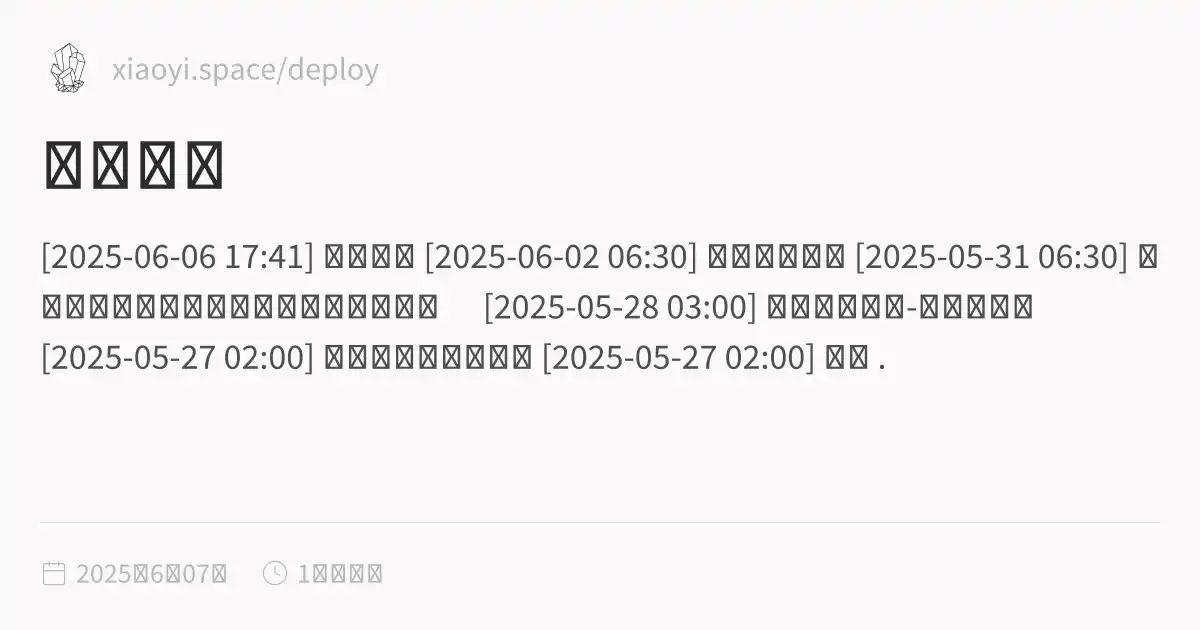
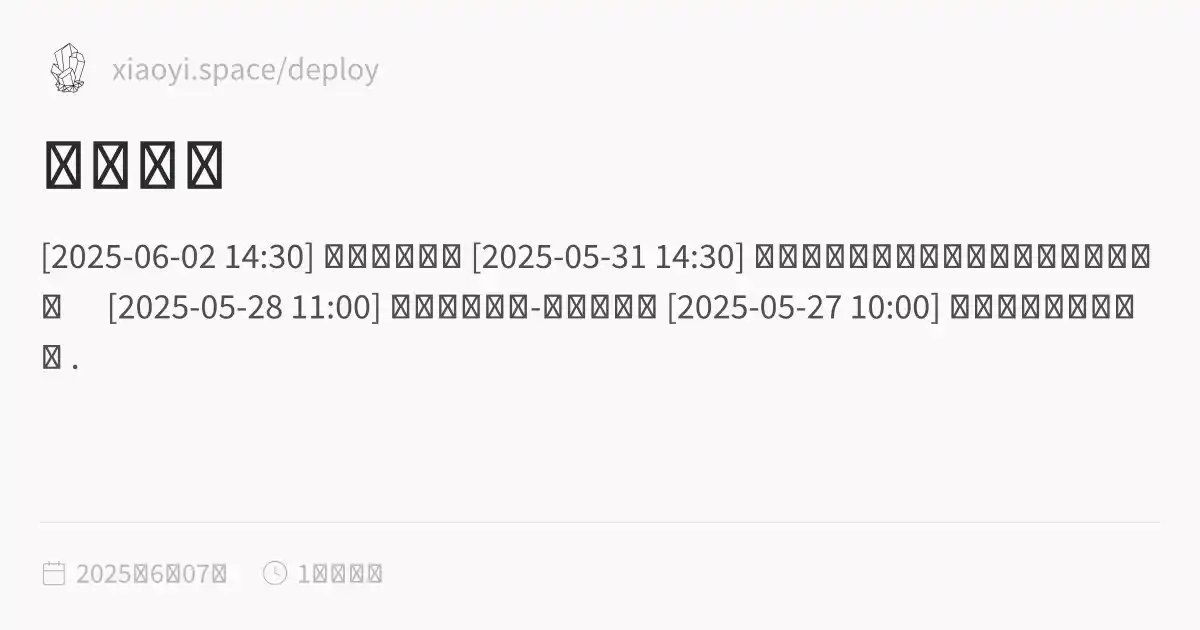
feature:xxxx

Changed region(s): [[0.0308, 0.3619, 0.9867, 0.5127], [0.0308, 0.5429, 0.74, 0.6032], [0.1542, 0.3921, 0.2775, 0.4222]]

diff --git a/deploy/最近更新.html b/deploy/最近更新.html
@@ -1,5 +1,5 @@
 <!DOCTYPE html>
-<html lang="zh"><head><title>最近更新</title><meta charset="utf-8"/><link rel="preconnect" href="https://fonts.googleapis.com"/><link rel="preconnect" href="https://fonts.gstatic.com"/><link rel="stylesheet" href="https://fonts.googleapis.com/css2?family=Schibsted Grotesk:wght@400;700&amp;family=Source Sans Pro:ital,wght@0,400;0,600;1,400;1,600&amp;family=IBM Plex Mono:wght@400;600&amp;display=swap"/><link rel="preconnect" href="https://cdnjs.cloudflare.com" crossorigin="anonymous"/><meta name="viewport" content="width=device-width, initial-scale=1.0"/><meta name="og:site_name" content="xiaoyi.space"/><meta property="og:title" content="最近更新"/><meta property="og:type" content="website"/><meta name="twitter:card" content="summary_large_image"/><meta name="twitter:title" content="最近更新"/><meta name="twitter:description" content="[2025-06-06 17:41] 最近更新 [2025-06-02 06:30] 一个工作感悟 [2025-05-31 06:30] 摩托车安全驾驶需要具备的能力有些什么？ [2025-05-28 03:00] 摩托车旅行记-惠州观音山 [2025-05-27 02:00] 为什么搭建这个博客 [2025-05-27 02:00] 首页 ."/><meta property="og:description" content="[2025-06-06 17:41] 最近更新 [2025-06-02 06:30] 一个工作感悟 [2025-05-31 06:30] 摩托车安全驾驶需要具备的能力有些什么？ [2025-05-28 03:00] 摩托车旅行记-惠州观音山 [2025-05-27 02:00] 为什么搭建这个博客 [2025-05-27 02:00] 首页 ."/><meta property="og:image:alt" content="[2025-06-06 17:41] 最近更新 [2025-06-02 06:30] 一个工作感悟 [2025-05-31 06:30] 摩托车安全驾驶需要具备的能力有些什么？ [2025-05-28 03:00] 摩托车旅行记-惠州观音山 [2025-05-27 02:00] 为什么搭建这个博客 [2025-05-27 02:00] 首页 ."/><meta property="twitter:domain" content="xiaoyi.space/deploy"/><meta property="og:url" content="https://xiaoyi.space/deploy/最近更新"/><meta property="twitter:url" content="https://xiaoyi.space/deploy/最近更新"/><link rel="icon" href="./static/icon.png"/><meta name="description" content="[2025-06-06 17:41] 最近更新 [2025-06-02 06:30] 一个工作感悟 [2025-05-31 06:30] 摩托车安全驾驶需要具备的能力有些什么？ [2025-05-28 03:00] 摩托车旅行记-惠州观音山 [2025-05-27 02:00] 为什么搭建这个博客 [2025-05-27 02:00] 首页 ."/><meta name="generator" content="Quartz"/><link href="./index.css" rel="stylesheet" type="text/css" spa-preserve/><style>.expand-button {
+<html lang="zh"><head><title>最近更新</title><meta charset="utf-8"/><link rel="preconnect" href="https://fonts.googleapis.com"/><link rel="preconnect" href="https://fonts.gstatic.com"/><link rel="stylesheet" href="https://fonts.googleapis.com/css2?family=Schibsted Grotesk:wght@400;700&amp;family=Source Sans Pro:ital,wght@0,400;0,600;1,400;1,600&amp;family=IBM Plex Mono:wght@400;600&amp;display=swap"/><link rel="preconnect" href="https://cdnjs.cloudflare.com" crossorigin="anonymous"/><meta name="viewport" content="width=device-width, initial-scale=1.0"/><meta name="og:site_name" content="xiaoyi.space"/><meta property="og:title" content="最近更新"/><meta property="og:type" content="website"/><meta name="twitter:card" content="summary_large_image"/><meta name="twitter:title" content="最近更新"/><meta name="twitter:description" content="[2025-06-02 14:30] 一个工作感悟 [2025-05-31 14:30] 摩托车安全驾驶需要具备的能力有些什么？ [2025-05-28 11:00] 摩托车旅行记-惠州观音山 [2025-05-27 10:00] 为什么搭建这个博客 ."/><meta property="og:description" content="[2025-06-02 14:30] 一个工作感悟 [2025-05-31 14:30] 摩托车安全驾驶需要具备的能力有些什么？ [2025-05-28 11:00] 摩托车旅行记-惠州观音山 [2025-05-27 10:00] 为什么搭建这个博客 ."/><meta property="og:image:alt" content="[2025-06-02 14:30] 一个工作感悟 [2025-05-31 14:30] 摩托车安全驾驶需要具备的能力有些什么？ [2025-05-28 11:00] 摩托车旅行记-惠州观音山 [2025-05-27 10:00] 为什么搭建这个博客 ."/><meta property="twitter:domain" content="xiaoyi.space/deploy"/><meta property="og:url" content="https://xiaoyi.space/deploy/最近更新"/><meta property="twitter:url" content="https://xiaoyi.space/deploy/最近更新"/><link rel="icon" href="./static/icon.png"/><meta name="description" content="[2025-06-02 14:30] 一个工作感悟 [2025-05-31 14:30] 摩托车安全驾驶需要具备的能力有些什么？ [2025-05-28 11:00] 摩托车旅行记-惠州观音山 [2025-05-27 10:00] 为什么搭建这个博客 ."/><meta name="generator" content="Quartz"/><link href="./index.css" rel="stylesheet" type="text/css" spa-preserve/><style>.expand-button {
   position: absolute;
   display: flex;
   float: right;
@@ -116,13 +116,11 @@ pre:hover > .expand-button {
   padding: 0 12px;
   font-size: 14px;
 }
[1 lines of base64/hex data omitted]
-<li><strong>[2025-06-06 17:41]</strong> <a href="./最近更新" class="internal alias" data-slug="最近更新">最近更新</a></li>
-<li><strong>[2025-06-02 06:30]</strong> <a href="./一个工作感悟" class="internal alias" data-slug="一个工作感悟">一个工作感悟</a></li>
-<li><strong>[2025-05-31 06:30]</strong> <a href="./摩托车安全驾驶需要具备的能力有些什么？" class="internal alias" data-slug="摩托车安全驾驶需要具备的能力有些什么？">摩托车安全驾驶需要具备的能力有些什么？</a></li>
-<li><strong>[2025-05-28 03:00]</strong> <a href="./摩托车旅行记-惠州观音山" class="internal alias" data-slug="摩托车旅行记-惠州观音山">摩托车旅行记-惠州观音山</a></li>
-<li><strong>[2025-05-27 02:00]</strong> <a href="./为什么搭建这个博客" class="internal alias" data-slug="为什么搭建这个博客">为什么搭建这个博客</a></li>
-<li><strong>[2025-05-27 02:00]</strong> <a href="./" class="internal alias" data-slug="index">首页</a></li>
[1 lines of base64/hex data omitted]
+<li><strong>[2025-06-02 14:30]</strong> <a href="./一个工作感悟" class="internal alias" data-slug="一个工作感悟">一个工作感悟</a></li>
+<li><strong>[2025-05-31 14:30]</strong> <a href="./摩托车安全驾驶需要具备的能力有些什么？" class="internal alias" data-slug="摩托车安全驾驶需要具备的能力有些什么？">摩托车安全驾驶需要具备的能力有些什么？</a></li>
+<li><strong>[2025-05-28 11:00]</strong> <a href="./摩托车旅行记-惠州观音山" class="internal alias" data-slug="摩托车旅行记-惠州观音山">摩托车旅行记-惠州观音山</a></li>
+<li><strong>[2025-05-27 10:00]</strong> <a href="./为什么搭建这个博客" class="internal alias" data-slug="为什么搭建这个博客">为什么搭建这个博客</a></li>
 </ul></article><hr/><div class="page-footer"><div class="recent-notes"><h3>最近</h3><ul class="recent-ul"><li class="recent-li"><div class="section"><div class="desc"><h3><a href="./一个工作感悟" class="internal">一个工作感悟</a></h3></div><p class="meta"><time datetime="2025-06-02T06:30:00.000Z">2025年6月02日</time></p><ul class="tags"><li><a class="internal tag-link" href="./tags/编程">编程</a></li><li><a class="internal tag-link" href="./tags/程序员">程序员</a></li></ul></div></li><li class="recent-li"><div class="section"><div class="desc"><h3><a href="./摩托车安全驾驶需要具备的能力有些什么？" class="internal">摩托车安全驾驶需要具备的能力有些什么？</a></h3></div><p class="meta"><time datetime="2025-05-31T06:30:00.000Z">2025年5月31日</time></p><ul class="tags"><li><a class="internal tag-link" href="./tags/摩托车">摩托车</a></li></ul></div></li><li class="recent-li"><div class="section"><div class="desc"><h3><a href="./摩托车旅行记-惠州观音山" class="internal">摩托车旅行记-惠州观音山</a></h3></div><p class="meta"><time datetime="2025-05-28T03:00:00.000Z">2025年5月28日</time></p><ul class="tags"><li><a class="internal tag-link" href="./tags/摩托车">摩托车</a></li><li><a class="internal tag-link" href="./tags/旅行">旅行</a></li></ul></div></li><li class="recent-li"><div class="section"><div class="desc"><h3><a href="./为什么搭建这个博客" class="internal">为什么搭建这个博客</a></h3></div><p class="meta"><time datetime="2025-05-27T02:00:00.000Z">2025年5月27日</time></p><ul class="tags"></ul></div></li></ul></div></div></div><div class="right sidebar"><div class="graph"><h3>关系图谱</h3><div class="graph-outer"><div class="graph-container" data-cfg="{&quot;drag&quot;:true,&quot;zoom&quot;:true,&quot;depth&quot;:1,&quot;scale&quot;:1.1,&quot;repelForce&quot;:0.5,&quot;centerForce&quot;:0.3,&quot;linkDistance&quot;:30,&quot;fontSize&quot;:0.6,&quot;opacityScale&quot;:1,&quot;showTags&quot;:true,&quot;removeTags&quot;:[],&quot;focusOnHover&quot;:false,&quot;enableRadial&quot;:false}"></div><button class="global-graph-icon" aria-label="Global Graph"><svg version="1.1" xmlns="http://www.w3.org/2000/svg" xmlns:xlink="http://www.w3.org/1999/xlink" x="0px" y="0px" viewBox="0 0 55 55" fill="currentColor" xml:space="preserve"><path d="M49,0c-3.309,0-6,2.691-6,6c0,1.035,0.263,2.009,0.726,2.86l-9.829,9.829C32.542,17.634,30.846,17,29,17
                 s-3.542,0.634-4.898,1.688l-7.669-7.669C16.785,10.424,17,9.74,17,9c0-2.206-1.794-4-4-4S9,6.794,9,9s1.794,4,4,4
                 c0.74,0,1.424-0.215,2.019-0.567l7.669,7.669C21.634,21.458,21,23.154,21,25s0.634,3.542,1.688,4.897L10.024,42.562
@@ -133,6 +131,6 @@ pre:hover > .expand-button {
                 C46.042,11.405,47.451,12,49,12c3.309,0,6-2.691,6-6S52.309,0,49,0z M11,9c0-1.103,0.897-2,2-2s2,0.897,2,2s-0.897,2-2,2
                 S11,10.103,11,9z M6,51c-2.206,0-4-1.794-4-4s1.794-4,4-4s4,1.794,4,4S8.206,51,6,51z M33,49c0,2.206-1.794,4-4,4s-4-1.794-4-4
                 s1.794-4,4-4S33,46.794,33,49z M29,31c-3.309,0-6-2.691-6-6s2.691-6,6-6s6,2.691,6,6S32.309,31,29,31z M47,41c0,1.103-0.897,2-2,2
-                s-2-0.897-2-2s0.897-2,2-2S47,39.897,47,41z M49,10c-2.206,0-4-1.794-4-4s1.794-4,4-4s4,1.794,4,4S51.206,10,49,10z"></path></svg></button></div><div class="global-graph-outer"><div class="global-graph-container" data-cfg="{&quot;drag&quot;:true,&quot;zoom&quot;:true,&quot;depth&quot;:-1,&quot;scale&quot;:0.9,&quot;repelForce&quot;:0.5,&quot;centerForce&quot;:0.2,&quot;linkDistance&quot;:30,&quot;fontSize&quot;:0.6,&quot;opacityScale&quot;:1,&quot;showTags&quot;:true,&quot;removeTags&quot;:[],&quot;focusOnHover&quot;:true,&quot;enableRadial&quot;:true}"></div></div></div><div class="backlinks"><h3>反向链接</h3><ul id="list-2" class="overflow"><li><a href="./最近更新" class="internal">最近更新</a></li><li class="overflow-end"></li></ul></div></div><footer class><p>Created with <a href="https://quartz.jzhao.xyz/">Quartz v4.5.1</a> © 2025</p><ul></ul></footer></div></div></body><script type="application/javascript">function n(){let t=this.parentElement;t.classList.toggle("is-collapsed");let e=t.getElementsByClassName("callout-content")[0];if(!e)return;let l=t.classList.contains("is-collapsed");e.style.gridTemplateRows=l?"0fr":"1fr"}function c(){let t=document.getElementsByClassName("callout is-collapsible");for(let e of t){let l=e.getElementsByClassName("callout-title")[0],s=e.getElementsByClassName("callout-content")[0];if(!l||!s)continue;l.addEventListener("click",n),window.addCleanup(()=>l.removeEventListener("click",n));let o=e.classList.contains("is-collapsed");s.style.gridTemplateRows=o?"0fr":"1fr"}}document.addEventListener("nav",c);
+                s-2-0.897-2-2s0.897-2,2-2S47,39.897,47,41z M49,10c-2.206,0-4-1.794-4-4s1.794-4,4-4s4,1.794,4,4S51.206,10,49,10z"></path></svg></button></div><div class="global-graph-outer"><div class="global-graph-container" data-cfg="{&quot;drag&quot;:true,&quot;zoom&quot;:true,&quot;depth&quot;:-1,&quot;scale&quot;:0.9,&quot;repelForce&quot;:0.5,&quot;centerForce&quot;:0.2,&quot;linkDistance&quot;:30,&quot;fontSize&quot;:0.6,&quot;opacityScale&quot;:1,&quot;showTags&quot;:true,&quot;removeTags&quot;:[],&quot;focusOnHover&quot;:true,&quot;enableRadial&quot;:true}"></div></div></div></div><footer class><p>Created with <a href="https://quartz.jzhao.xyz/">Quartz v4.5.1</a> © 2025</p><ul></ul></footer></div></div></body><script type="application/javascript">function n(){let t=this.parentElement;t.classList.toggle("is-collapsed");let e=t.getElementsByClassName("callout-content")[0];if(!e)return;let l=t.classList.contains("is-collapsed");e.style.gridTemplateRows=l?"0fr":"1fr"}function c(){let t=document.getElementsByClassName("callout is-collapsible");for(let e of t){let l=e.getElementsByClassName("callout-title")[0],s=e.getElementsByClassName("callout-content")[0];if(!l||!s)continue;l.addEventListener("click",n),window.addCleanup(()=>l.removeEventListener("click",n));let o=e.classList.contains("is-collapsed");s.style.gridTemplateRows=o?"0fr":"1fr"}}document.addEventListener("nav",c);
 </script><script type="module">function f(i,e){if(!i)return;function r(o){o.target===this&&(o.preventDefault(),o.stopPropagation(),e())}function t(o){o.key.startsWith("Esc")&&(o.preventDefault(),e())}i?.addEventListener("click",r),window.addCleanup(()=>i?.removeEventListener("click",r)),document.addEventListener("keydown",t),window.addCleanup(()=>document.removeEventListener("keydown",t))}function y(i){for(;i.firstChild;)i.removeChild(i.firstChild)}var h=class{constructor(e,r){this.container=e;this.content=r;this.setupEventListeners(),this.setupNavigationControls(),this.resetTransform()}isDragging=!1;startPan={x:0,y:0};currentPan={x:0,y:0};scale=1;MIN_SCALE=.5;MAX_SCALE=3;cleanups=[];setupEventListeners(){let e=this.onMouseDown.bind(this),r=this.onMouseMove.bind(this),t=this.onMouseUp.bind(this),o=this.resetTransform.bind(this);this.container.addEventListener("mousedown",e),document.addEventListener("mousemove",r),document.addEventListener("mouseup",t),window.addEventListener("resize",o),this.cleanups.push(()=>this.container.removeEventListener("mousedown",e),()=>document.removeEventListener("mousemove",r),()=>document.removeEventListener("mouseup",t),()=>window.removeEventListener("resize",o))}cleanup(){for(let e of this.cleanups)e()}setupNavigationControls(){let e=document.createElement("div");e.className="mermaid-controls";let r=this.createButton("+",()=>this.zoom(.1)),t=this.createButton("-",()=>this.zoom(-.1)),o=this.createButton("Reset",()=>this.resetTransform());e.appendChild(t),e.appendChild(o),e.appendChild(r),this.container.appendChild(e)}createButton(e,r){let t=document.createElement("button");return t.textContent=e,t.className="mermaid-control-button",t.addEventListener("click",r),window.addCleanup(()=>t.removeEventListener("click",r)),t}onMouseDown(e){e.button===0&&(this.isDragging=!0,this.startPan={x:e.clientX-this.currentPan.x,y:e.clientY-this.currentPan.y},this.container.style.cursor="grabbing")}onMouseMove(e){this.isDragging&&(e.preventDefault(),this.currentPan={x:e.clientX-this.startPan.x,y:e.clientY-this.startPan.y},this.updateTransform())}onMouseUp(){this.isDragging=!1,this.container.style.cursor="grab"}zoom(e){let r=Math.min(Math.max(this.scale+e,this.MIN_SCALE),this.MAX_SCALE),t=this.content.getBoundingClientRect(),o=t.width/2,n=t.height/2,c=r-this.scale;this.currentPan.x-=o*c,this.currentPan.y-=n*c,this.scale=r,this.updateTransform()}updateTransform(){this.content.style.transform=`translate(${this.currentPan.x}px, ${this.currentPan.y}px) scale(${this.scale})`}resetTransform(){this.scale=1;let e=this.content.querySelector("svg");this.currentPan={x:e.getBoundingClientRect().width/2,y:e.getBoundingClientRect().height/2},this.updateTransform()}},C=["--secondary","--tertiary","--gray","--light","--lightgray","--highlight","--dark","--darkgray","--codeFont"],E;document.addEventListener("nav",async()=>{let e=document.querySelector(".center").querySelectorAll("code.mermaid");if(e.length===0)return;E||=await import("https://cdnjs.cloudflare.com/ajax/libs/mermaid/11.4.0/mermaid.esm.min.mjs");let r=E.default,t=new WeakMap;for(let n of e)t.set(n,n.innerText);async function o(){for(let s of e){s.removeAttribute("data-processed");let a=t.get(s);a&&(s.innerHTML=a)}let n=C.reduce((s,a)=>(s[a]=window.getComputedStyle(document.documentElement).getPropertyValue(a),s),{}),c=document.documentElement.getAttribute("saved-theme")==="dark";r.initialize({startOnLoad:!1,securityLevel:"loose",theme:c?"dark":"base",themeVariables:{fontFamily:n["--codeFont"],primaryColor:n["--light"],primaryTextColor:n["--darkgray"],primaryBorderColor:n["--tertiary"],lineColor:n["--darkgray"],secondaryColor:n["--secondary"],tertiaryColor:n["--tertiary"],clusterBkg:n["--light"],edgeLabelBackground:n["--highlight"]}}),await r.run({nodes:e})}await o(),document.addEventListener("themechange",o),window.addCleanup(()=>document.removeEventListener("themechange",o));for(let n=0;n<e.length;n++){let v=function(){let g=l.querySelector("#mermaid-space"),m=l.querySelector(".mermaid-content");if(!m)return;y(m);let w=c.querySelector("svg").cloneNode(!0);m.appendChild(w),l.classList.add("active"),g.style.cursor="grab",u=new h(g,m)},M=function(){l.classList.remove("active"),u?.cleanup(),u=null},c=e[n],s=c.parentElement,a=s.querySelector(".clipboard-button"),d=s.querySelector(".expand-button"),p=window.getComputedStyle(a),L=a.offsetWidth+parseFloat(p.marginLeft||"0")+parseFloat(p.marginRight||"0");d.style.right=`calc(${L}px + 0.3rem)`,s.prepend(d);let l=s.querySelector("#mermaid-container");if(!l)return;let u=null;d.addEventListener("click",v),f(l,M),window.addCleanup(()=>{u?.cleanup(),d.removeEventListener("click",v)})}});
 </script><script src="https://cdn.jsdelivr.net/npm/katex@0.16.11/dist/contrib/copy-tex.min.js" type="application/javascript"></script><script src="./postscript.js" type="module"></script></html>

diff --git a/deploy/index.html b/deploy/index.html
@@ -138,6 +138,6 @@ pre:hover > .expand-button {
                 C46.042,11.405,47.451,12,49,12c3.309,0,6-2.691,6-6S52.309,0,49,0z M11,9c0-1.103,0.897-2,2-2s2,0.897,2,2s-0.897,2-2,2
                 S11,10.103,11,9z M6,51c-2.206,0-4-1.794-4-4s1.794-4,4-4s4,1.794,4,4S8.206,51,6,51z M33,49c0,2.206-1.794,4-4,4s-4-1.794-4-4
                 s1.794-4,4-4S33,46.794,33,49z M29,31c-3.309,0-6-2.691-6-6s2.691-6,6-6s6,2.691,6,6S32.309,31,29,31z M47,41c0,1.103-0.897,2-2,2
-                s-2-0.897-2-2s0.897-2,2-2S47,39.897,47,41z M49,10c-2.206,0-4-1.794-4-4s1.794-4,4-4s4,1.794,4,4S51.206,10,49,10z"></path></svg></button></div><div class="global-graph-outer"><div class="global-graph-container" data-cfg="{&quot;drag&quot;:true,&quot;zoom&quot;:true,&quot;depth&quot;:-1,&quot;scale&quot;:0.9,&quot;repelForce&quot;:0.5,&quot;centerForce&quot;:0.2,&quot;linkDistance&quot;:30,&quot;fontSize&quot;:0.6,&quot;opacityScale&quot;:1,&quot;showTags&quot;:true,&quot;removeTags&quot;:[],&quot;focusOnHover&quot;:true,&quot;enableRadial&quot;:true}"></div></div></div><div class="toc desktop-only"><button type="button" class="toc-header" aria-controls="toc-content" aria-expanded="true"><h3>目录</h3><svg xmlns="http://www.w3.org/2000/svg" width="24" height="24" viewBox="0 0 24 24" fill="none" stroke="currentColor" stroke-width="2" stroke-linecap="round" stroke-linejoin="round" class="fold"><polyline points="6 9 12 15 18 9"></polyline></svg></button><ul class="toc-content overflow" id="list-1"><li class="depth-0"><a href="#这是哪儿" data-for="这是哪儿">这是哪儿</a></li><li class="depth-0"><a href="#我是谁" data-for="我是谁">我是谁</a></li><li class="depth-0"><a href="#我的联系方式" data-for="我的联系方式">我的联系方式</a></li><li class="depth-0"><a href="#这是我的猫" data-for="这是我的猫">这是我的猫</a></li><li class="overflow-end"></li></ul></div><div class="backlinks"><h3>反向链接</h3><ul id="list-2" class="overflow"><li><a href="./最近更新" class="internal">最近更新</a></li><li class="overflow-end"></li></ul></div></div><footer class><p>Created with <a href="https://quartz.jzhao.xyz/">Quartz v4.5.1</a> © 2025</p><ul></ul></footer></div></div></body><script type="application/javascript">function n(){let t=this.parentElement;t.classList.toggle("is-collapsed");let e=t.getElementsByClassName("callout-content")[0];if(!e)return;let l=t.classList.contains("is-collapsed");e.style.gridTemplateRows=l?"0fr":"1fr"}function c(){let t=document.getElementsByClassName("callout is-collapsible");for(let e of t){let l=e.getElementsByClassName("callout-title")[0],s=e.getElementsByClassName("callout-content")[0];if(!l||!s)continue;l.addEventListener("click",n),window.addCleanup(()=>l.removeEventListener("click",n));let o=e.classList.contains("is-collapsed");s.style.gridTemplateRows=o?"0fr":"1fr"}}document.addEventListener("nav",c);
+                s-2-0.897-2-2s0.897-2,2-2S47,39.897,47,41z M49,10c-2.206,0-4-1.794-4-4s1.794-4,4-4s4,1.794,4,4S51.206,10,49,10z"></path></svg></button></div><div class="global-graph-outer"><div class="global-graph-container" data-cfg="{&quot;drag&quot;:true,&quot;zoom&quot;:true,&quot;depth&quot;:-1,&quot;scale&quot;:0.9,&quot;repelForce&quot;:0.5,&quot;centerForce&quot;:0.2,&quot;linkDistance&quot;:30,&quot;fontSize&quot;:0.6,&quot;opacityScale&quot;:1,&quot;showTags&quot;:true,&quot;removeTags&quot;:[],&quot;focusOnHover&quot;:true,&quot;enableRadial&quot;:true}"></div></div></div><div class="toc desktop-only"><button type="button" class="toc-header" aria-controls="toc-content" aria-expanded="true"><h3>目录</h3><svg xmlns="http://www.w3.org/2000/svg" width="24" height="24" viewBox="0 0 24 24" fill="none" stroke="currentColor" stroke-width="2" stroke-linecap="round" stroke-linejoin="round" class="fold"><polyline points="6 9 12 15 18 9"></polyline></svg></button><ul class="toc-content overflow" id="list-1"><li class="depth-0"><a href="#这是哪儿" data-for="这是哪儿">这是哪儿</a></li><li class="depth-0"><a href="#我是谁" data-for="我是谁">我是谁</a></li><li class="depth-0"><a href="#我的联系方式" data-for="我的联系方式">我的联系方式</a></li><li class="depth-0"><a href="#这是我的猫" data-for="这是我的猫">这是我的猫</a></li><li class="overflow-end"></li></ul></div></div><footer class><p>Created with <a href="https://quartz.jzhao.xyz/">Quartz v4.5.1</a> © 2025</p><ul></ul></footer></div></div></body><script type="application/javascript">function n(){let t=this.parentElement;t.classList.toggle("is-collapsed");let e=t.getElementsByClassName("callout-content")[0];if(!e)return;let l=t.classList.contains("is-collapsed");e.style.gridTemplateRows=l?"0fr":"1fr"}function c(){let t=document.getElementsByClassName("callout is-collapsible");for(let e of t){let l=e.getElementsByClassName("callout-title")[0],s=e.getElementsByClassName("callout-content")[0];if(!l||!s)continue;l.addEventListener("click",n),window.addCleanup(()=>l.removeEventListener("click",n));let o=e.classList.contains("is-collapsed");s.style.gridTemplateRows=o?"0fr":"1fr"}}document.addEventListener("nav",c);
 </script><script type="module">function f(i,e){if(!i)return;function r(o){o.target===this&&(o.preventDefault(),o.stopPropagation(),e())}function t(o){o.key.startsWith("Esc")&&(o.preventDefault(),e())}i?.addEventListener("click",r),window.addCleanup(()=>i?.removeEventListener("click",r)),document.addEventListener("keydown",t),window.addCleanup(()=>document.removeEventListener("keydown",t))}function y(i){for(;i.firstChild;)i.removeChild(i.firstChild)}var h=class{constructor(e,r){this.container=e;this.content=r;this.setupEventListeners(),this.setupNavigationControls(),this.resetTransform()}isDragging=!1;startPan={x:0,y:0};currentPan={x:0,y:0};scale=1;MIN_SCALE=.5;MAX_SCALE=3;cleanups=[];setupEventListeners(){let e=this.onMouseDown.bind(this),r=this.onMouseMove.bind(this),t=this.onMouseUp.bind(this),o=this.resetTransform.bind(this);this.container.addEventListener("mousedown",e),document.addEventListener("mousemove",r),document.addEventListener("mouseup",t),window.addEventListener("resize",o),this.cleanups.push(()=>this.container.removeEventListener("mousedown",e),()=>document.removeEventListener("mousemove",r),()=>document.removeEventListener("mouseup",t),()=>window.removeEventListener("resize",o))}cleanup(){for(let e of this.cleanups)e()}setupNavigationControls(){let e=document.createElement("div");e.className="mermaid-controls";let r=this.createButton("+",()=>this.zoom(.1)),t=this.createButton("-",()=>this.zoom(-.1)),o=this.createButton("Reset",()=>this.resetTransform());e.appendChild(t),e.appendChild(o),e.appendChild(r),this.container.appendChild(e)}createButton(e,r){let t=document.createElement("button");return t.textContent=e,t.className="mermaid-control-button",t.addEventListener("click",r),window.addCleanup(()=>t.removeEventListener("click",r)),t}onMouseDown(e){e.button===0&&(this.isDragging=!0,this.startPan={x:e.clientX-this.currentPan.x,y:e.clientY-this.currentPan.y},this.container.style.cursor="grabbing")}onMouseMove(e){this.isDragging&&(e.preventDefault(),this.currentPan={x:e.clientX-this.startPan.x,y:e.clientY-this.startPan.y},this.updateTransform())}onMouseUp(){this.isDragging=!1,this.container.style.cursor="grab"}zoom(e){let r=Math.min(Math.max(this.scale+e,this.MIN_SCALE),this.MAX_SCALE),t=this.content.getBoundingClientRect(),o=t.width/2,n=t.height/2,c=r-this.scale;this.currentPan.x-=o*c,this.currentPan.y-=n*c,this.scale=r,this.updateTransform()}updateTransform(){this.content.style.transform=`translate(${this.currentPan.x}px, ${this.currentPan.y}px) scale(${this.scale})`}resetTransform(){this.scale=1;let e=this.content.querySelector("svg");this.currentPan={x:e.getBoundingClientRect().width/2,y:e.getBoundingClientRect().height/2},this.updateTransform()}},C=["--secondary","--tertiary","--gray","--light","--lightgray","--highlight","--dark","--darkgray","--codeFont"],E;document.addEventListener("nav",async()=>{let e=document.querySelector(".center").querySelectorAll("code.mermaid");if(e.length===0)return;E||=await import("https://cdnjs.cloudflare.com/ajax/libs/mermaid/11.4.0/mermaid.esm.min.mjs");let r=E.default,t=new WeakMap;for(let n of e)t.set(n,n.innerText);async function o(){for(let s of e){s.removeAttribute("data-processed");let a=t.get(s);a&&(s.innerHTML=a)}let n=C.reduce((s,a)=>(s[a]=window.getComputedStyle(document.documentElement).getPropertyValue(a),s),{}),c=document.documentElement.getAttribute("saved-theme")==="dark";r.initialize({startOnLoad:!1,securityLevel:"loose",theme:c?"dark":"base",themeVariables:{fontFamily:n["--codeFont"],primaryColor:n["--light"],primaryTextColor:n["--darkgray"],primaryBorderColor:n["--tertiary"],lineColor:n["--darkgray"],secondaryColor:n["--secondary"],tertiaryColor:n["--tertiary"],clusterBkg:n["--light"],edgeLabelBackground:n["--highlight"]}}),await r.run({nodes:e})}await o(),document.addEventListener("themechange",o),window.addCleanup(()=>document.removeEventListener("themechange",o));for(let n=0;n<e.length;n++){let v=function(){let g=l.querySelector("#mermaid-space"),m=l.querySelector(".mermaid-content");if(!m)return;y(m);let w=c.querySelector("svg").cloneNode(!0);m.appendChild(w),l.classList.add("active"),g.style.cursor="grab",u=new h(g,m)},M=function(){l.classList.remove("active"),u?.cleanup(),u=null},c=e[n],s=c.parentElement,a=s.querySelector(".clipboard-button"),d=s.querySelector(".expand-button"),p=window.getComputedStyle(a),L=a.offsetWidth+parseFloat(p.marginLeft||"0")+parseFloat(p.marginRight||"0");d.style.right=`calc(${L}px + 0.3rem)`,s.prepend(d);let l=s.querySelector("#mermaid-container");if(!l)return;let u=null;d.addEventListener("click",v),f(l,M),window.addCleanup(()=>{u?.cleanup(),d.removeEventListener("click",v)})}});
 </script><script src="https://cdn.jsdelivr.net/npm/katex@0.16.11/dist/contrib/copy-tex.min.js" type="application/javascript"></script><script src="./postscript.js" type="module"></script></html>
